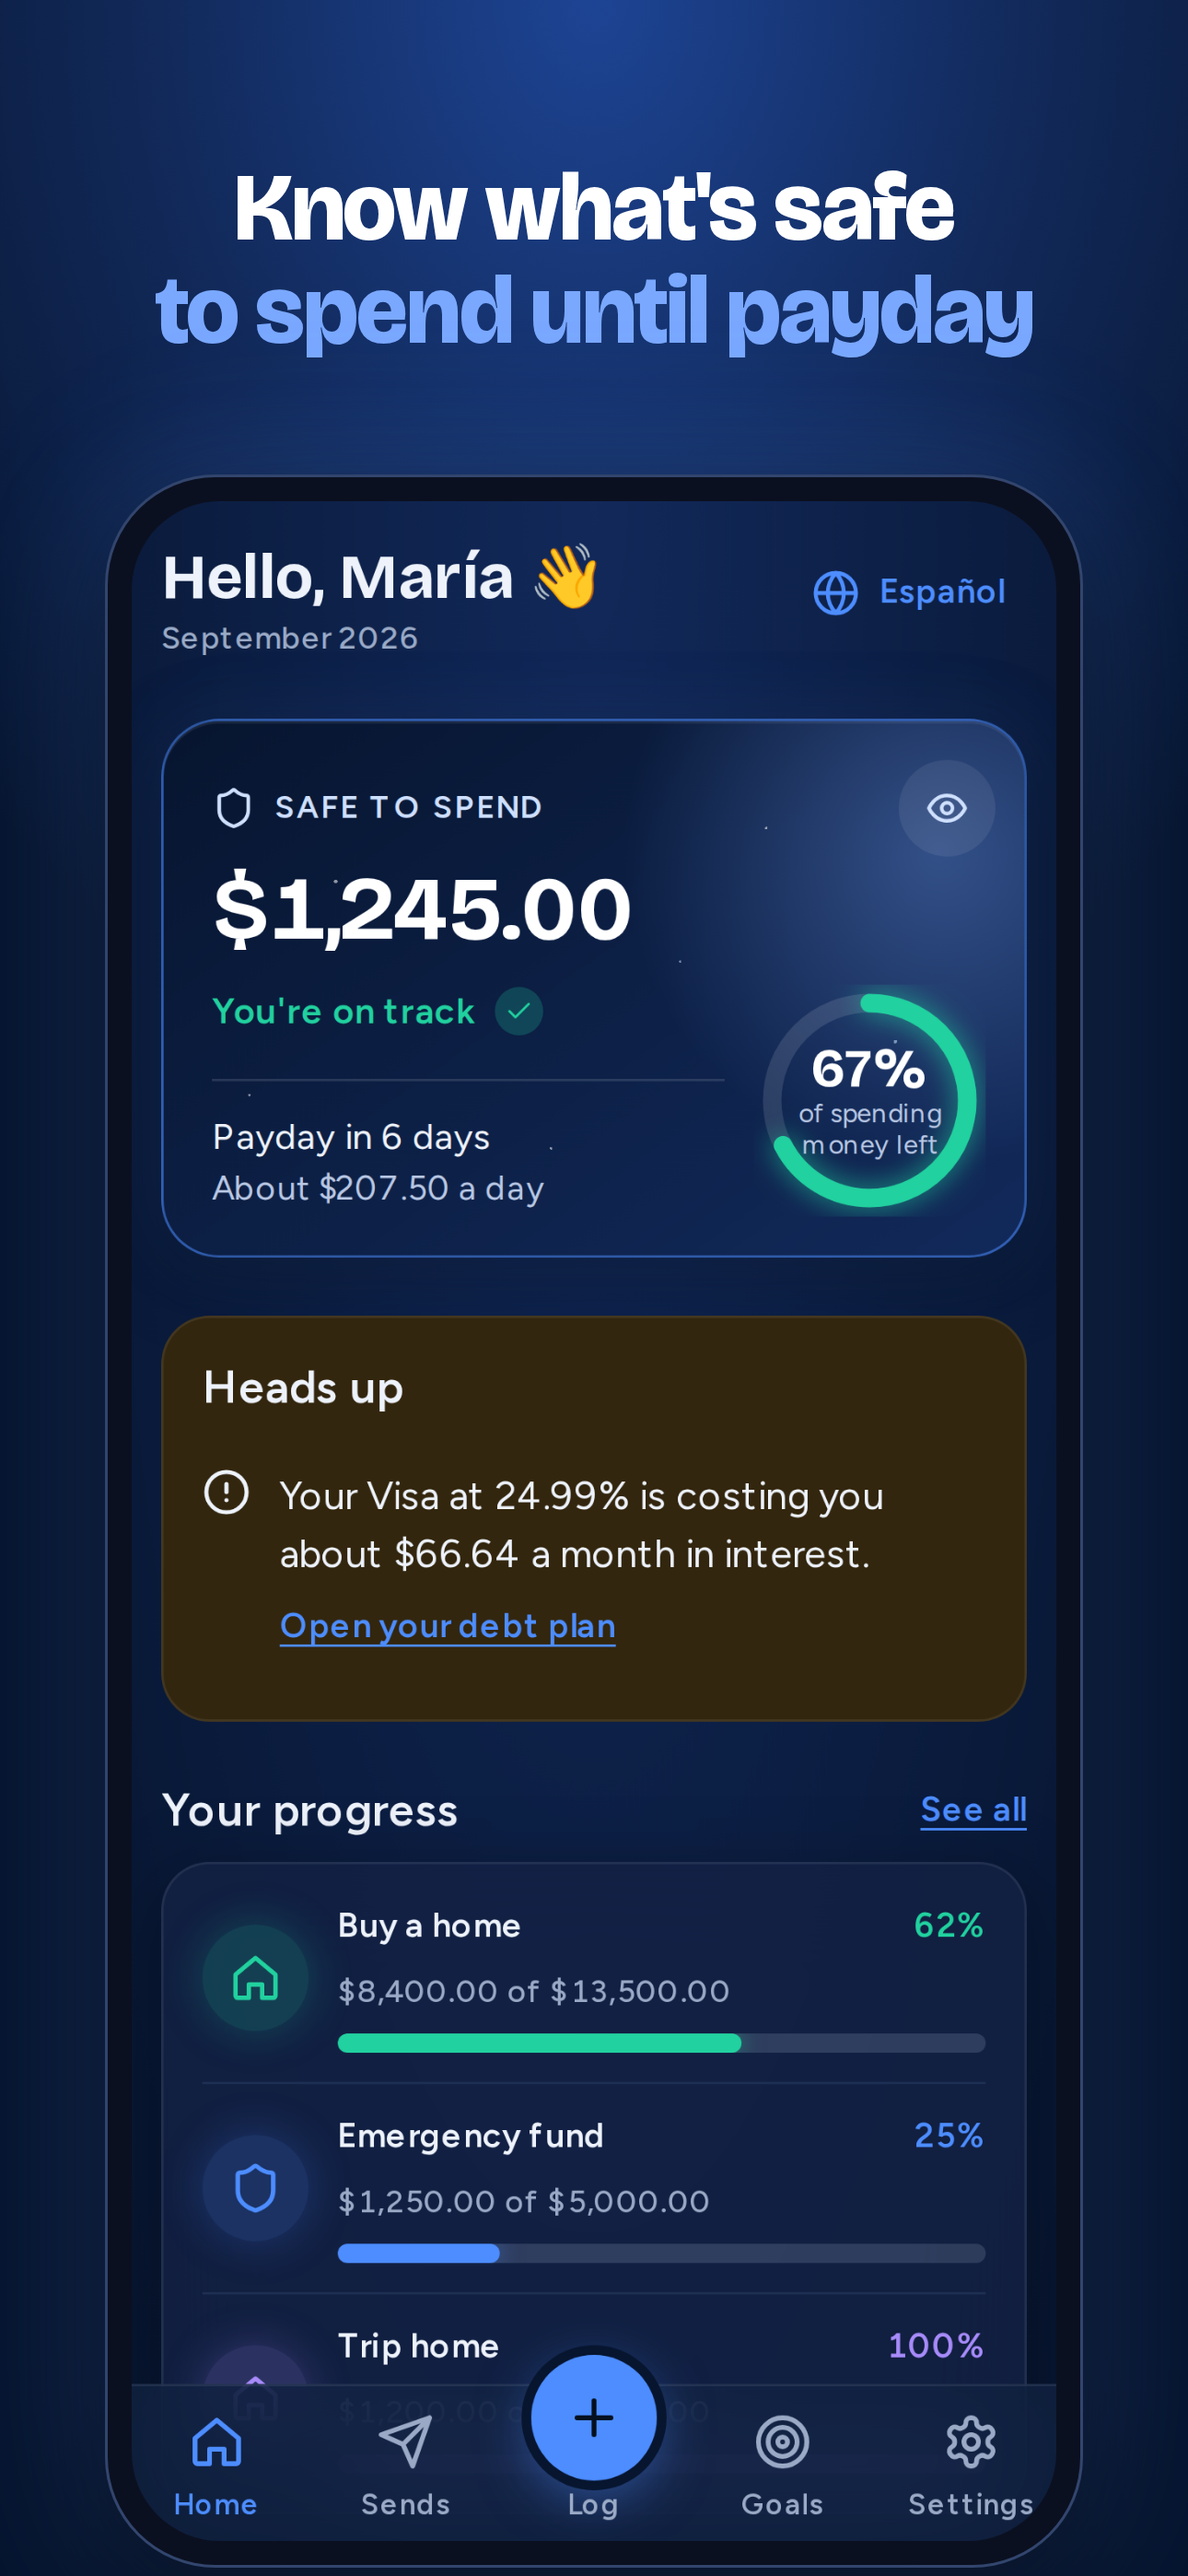
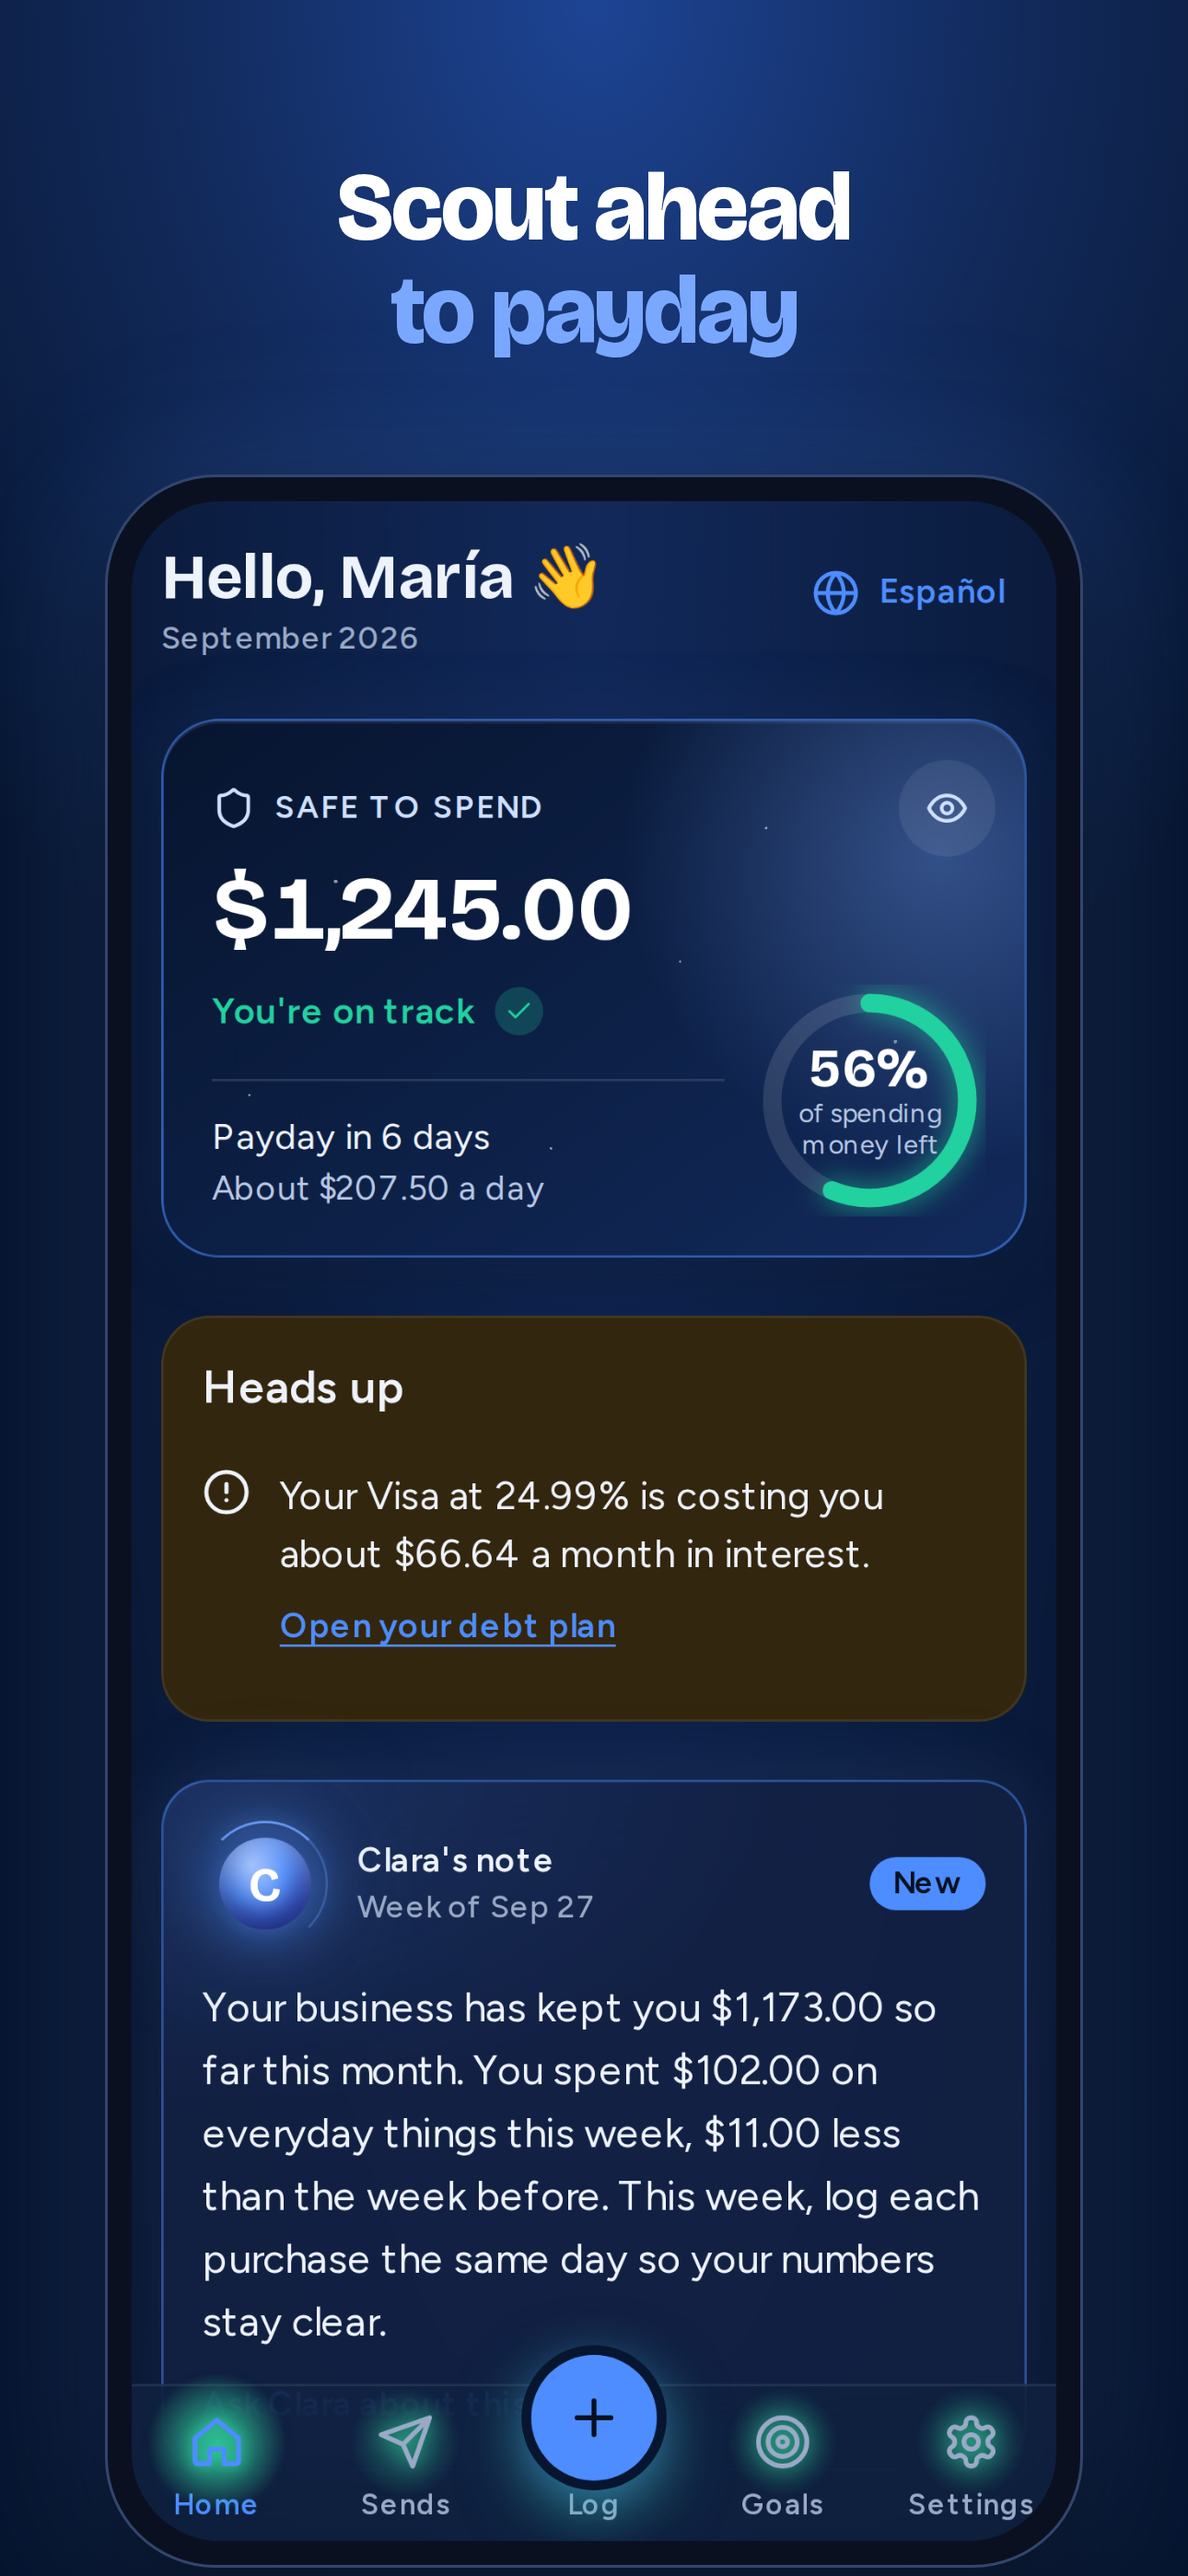
App Store listing refresh for Pocket Recon
Name "Pocket Recon: AI Money Coach", subtitle "Scout ahead to payday",
keywords without words already in the name, new promotional text, the
description mentions Clara's weekly note, phone notifications and the
Dominican peso. Six new screenshots in English and Spanish in the ranking
order: Home with Clara's note, Clara, Business, Goals, Debts, Veterans.

Claude-Session: https://claude.ai/code/session_01Wzn6Erh6jxjWKukRy5UagZ

diff --git a/docs/APP_STORE.md b/docs/APP_STORE.md
@@ -35,7 +35,7 @@ Apple rejects apps that are "just a website in a box". Pocket Recon is wrapped w
 **Capacitor** (the same app code, inside a native shell). To pass review, add:
 
 - Face ID / passcode lock when the app opens (money apps are expected to have it).
-- Push notifications for bill reminders and payday (instead of only email).
+- Push notifications for bill reminders and payday (already built for the web app; the iPhone wrapper connects them to Apple's notifications).
 - A friendly "you're offline" screen.
 - Haptic taps when you log something.
 
@@ -45,21 +45,31 @@ so "Sign in with Apple" isn't required).
 
 ## 4. App Store listing (copy and paste)
 
-**Name** (30 max): `Pocket Recon`
+**Name** (30 max): `Pocket Recon: AI Money Coach` (28)
+Putting "AI Money Coach" in the name helps search: Apple ranks words in the name highest.
+Keywords below don't repeat words already in the name or subtitle (Apple counts them once).
 
 **Subtitle** (30 max)
-- English: `AI money coach & budget` (23)
-- Spanish: `Coach de dinero con IA` (22)
+- English: `Scout ahead to payday` (21)
+- Spanish: `Adelántate a tu día de pago` (27)
 
 **Category:** Finance. Secondary: Business.
 
 **Keywords** (100 max, commas, no spaces after commas)
-- English: `ai,coach,budget,finance,side hustle,self employed,gig,freelance,tax,paycheck,savings,debt,veteran` (97)
-- Spanish: `ia,coach,presupuesto,finanzas,negocio,independiente,impuestos,quincena,ahorro,deudas,veteranos` (94)
+- English: `budget,finance,side hustle,self employed,gig,freelance,tax,paycheck,savings,debt,bills,veteran,goals` (100)
+- Spanish: `presupuesto,finanzas,negocio,independiente,impuestos,quincena,ahorro,deudas,cuentas,veteranos,metas` (99)
 
 **Promotional text** (170 max, can change anytime)
-- English: `Ask Clara, your AI money coach, anything. See what's safe to spend, track what your side hustle really keeps, set aside for taxes, and hit your goals.`
-- Spanish: `Pregúntale a Clara, tu coach de dinero con IA. Mira cuánto puedes gastar, planea ingresos de negocio o por tu cuenta, aparta para impuestos y cumple tus metas.`
+- English: `Clara, your AI money coach, tells you what's safe to spend until payday, what your side hustle really keeps, and what to set aside for taxes. Free to start.` (156)
+- Spanish: `Clara, tu coach de dinero con IA, te dice cuánto puedes gastar hasta tu pago, cuánto te deja tu negocio y cuánto apartar para impuestos. Gratis para empezar.` (157)
+
+**Screenshots** (in `docs/app-store/`, in this order, English `en-1…6`, Spanish `es-1…6`)
+1. Scout ahead to payday: Home with Safe to Spend and Clara's weekly note
+2. Ask Clara, your AI money coach: a Clara answer
+3. See what your side hustle keeps: Business mode
+4. Watch your goals grow
+5. See when you'll be debt-free
+6. Free tools for veterans
 
 **Description (English)**
 
@@ -72,7 +82,7 @@ SEE WHAT'S SAFE TO SPEND
 Type your balance and payday, and Pocket Recon shows what you can spend until your next check, after bills, savings and everything you've planned.
 
 SMART MONEY TECH
-Log spending by voice or a receipt photo. See a 3-month forecast and a "What if?" chart. Get bill reminders and payday plans by email.
+Log spending by voice or a receipt photo. See a 3-month forecast and a "What if?" chart. Every Sunday, Clara sends a short note on how your week went. Get bill reminders and your payday plan as phone notifications or email.
 
 BUSINESS MODE FOR SIDE HUSTLES AND SELF-EMPLOYED PAY
 Mark income and costs as business in one tap and see what came in, what it cost and what you kept, this month and all year, with costs by category. Set aside for taxes on your profit. Plan each paycheck on its own when pay changes week to week, and snap a pay stub to check your hours and overtime.
@@ -90,7 +100,7 @@ IN ENGLISH OR SPANISH, WITH FAMILY SENDS
 Use the app in English, Spanish or both, and plan money you send to family abroad in their currency.
 
 YOUR CURRENCY
-U.S. dollar, Canadian dollar or British pound.
+U.S. dollar, Canadian dollar, British pound or Dominican peso.
 
 FREE, AND PRIVATE
 The basics are free forever. We never connect to your bank and never sell your data.
@@ -108,7 +118,7 @@ MIRA CUÁNTO PUEDES GASTAR
 Escribe tu saldo y tu día de pago, y Pocket Recon te dice cuánto puedes gastar hasta tu próximo cheque, después de cuentas, ahorro y todo lo que planeaste.
 
 TECNOLOGÍA PARA TU DINERO
-Anota gastos con tu voz o una foto del recibo. Mira un pronóstico de 3 meses y una gráfica de "¿Y si…?". Recibe recordatorios de cuentas y planes de pago por email.
+Anota gastos con tu voz o una foto del recibo. Mira un pronóstico de 3 meses y una gráfica de "¿Y si…?". Cada domingo, Clara te manda una nota corta sobre tu semana. Recibe recordatorios de cuentas y tu plan del día de pago como avisos en el teléfono o por email.
 
 MODO NEGOCIO PARA NEGOCIOS PROPIOS Y TRABAJO POR TU CUENTA
 Marca ingresos y gastos como del negocio con un toque y mira lo que entró, lo que costó y lo que te quedó, en el mes y en todo el año, con gastos por categoría. Aparta para impuestos sobre tu ganancia. Planea cada cheque por separado cuando tu pago cambia y toma foto de tu talón para revisar tus horas y overtime.
@@ -120,13 +130,13 @@ APRENDE MIENTRAS USAS
 Lecciones cortas, un quiz de tu estilo con el dinero y un glosario de palabras de dinero, gratis y sin cuenta.
 
 PARA VETERANOS Y FAMILIAS MILITARES
-Calcula tu calificación combinada de discapacidad del VA, planea tu GI Bill y marca los beneficios que muchos veteranos no usan. Solo estimados; Pocket Recon no está afiliada con el VA.
+Calcula tu calificación combinada de discapacidad del VA, planea tu GI Bill y marca los beneficios que muchos veteranos no usan. Solo estimados; Pocket Recon no está afiliado con el VA.
 
 EN ESPAÑOL O INGLÉS, CON ENVÍOS A TU FAMILIA
 Usa la app en español, inglés o los dos, y planea lo que mandas a tu familia en su moneda.
 
 TU MONEDA
-Dólar estadounidense, dólar canadiense o libra esterlina.
+Dólar estadounidense, dólar canadiense, libra esterlina o peso dominicano.
 
 GRATIS Y PRIVADA
 Lo básico es gratis para siempre. Nunca nos conectamos a tu banco ni vendemos tus datos.
@@ -136,7 +146,7 @@ Pocket Recon da información general, no asesoría financiera, de impuestos ni l
 **URLs**
 - Privacy policy: `https://pocketrecon.app/privacidad`
 - Terms: `https://pocketrecon.app/terminos`
-- Support: `https://pocketrecon.app` (Apple needs a page with a way to contact you; the landing page footer and the privacy page list hola@micuentaclara.app)
+- Support: `https://pocketrecon.app` (Apple needs a page with a way to contact you; the landing page footer and the privacy page list the contact email; switch it to hola@pocketrecon.app once Resend is verified)
 - Marketing: `https://pocketrecon.app`
 
 **Age rating:** answer Apple's questionnaire honestly (no gambling, no mature content,
